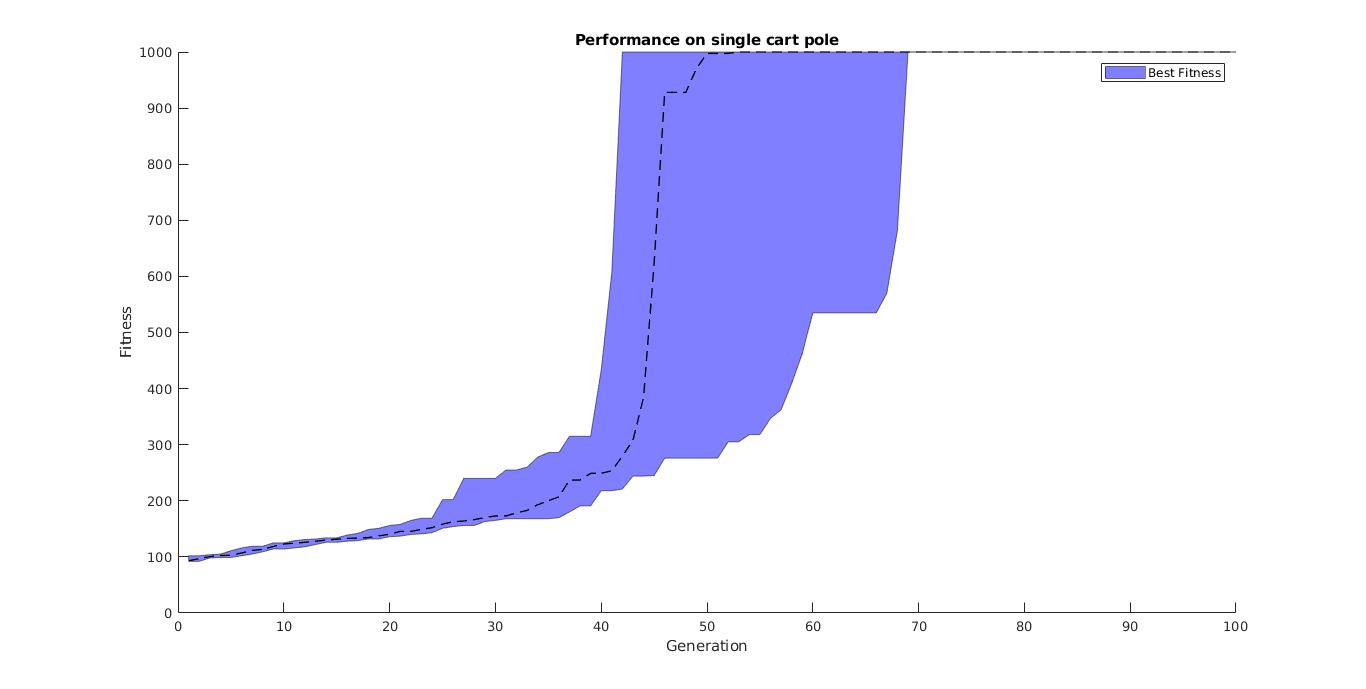
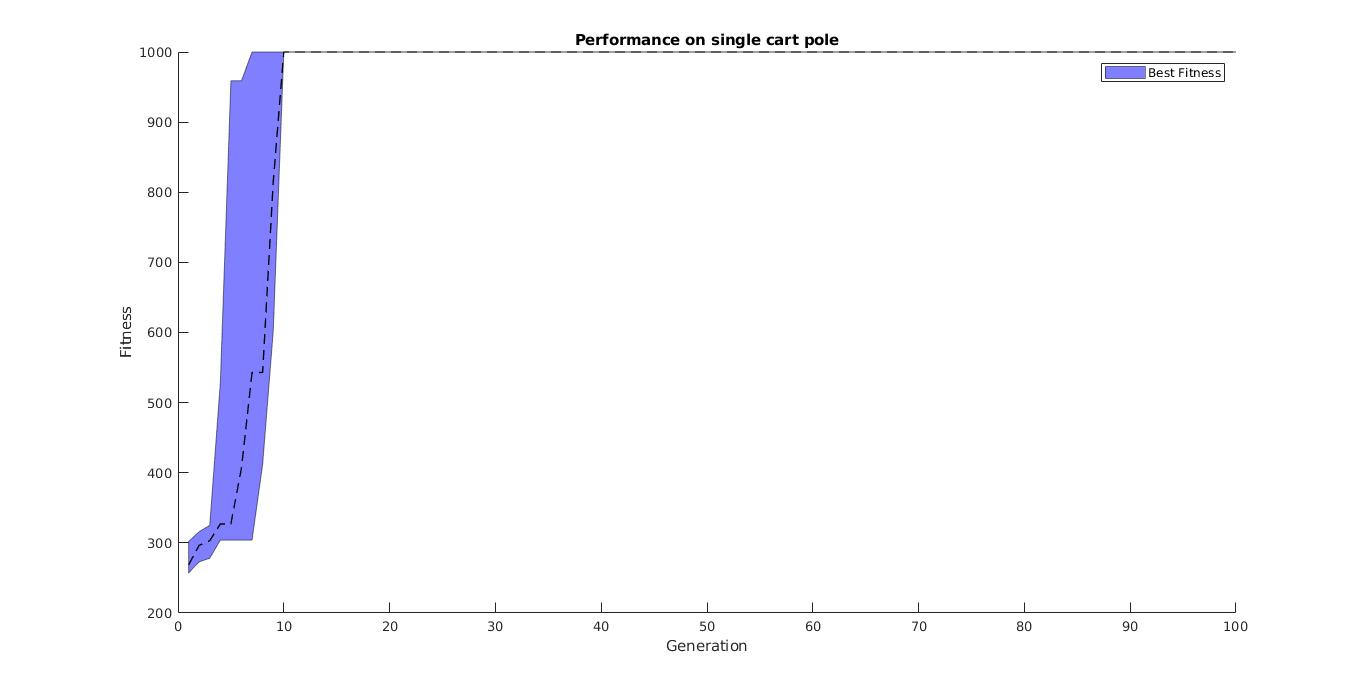
final plots

diff --git a/assignment_5/code/twoPoleDemo.m b/assignment_5/code/twoPoleDemo.m
@@ -10,12 +10,12 @@ addpath('./simulator/')
 %           ]
 %% GA
 clear;
-initialState = [0 0 .017 0 0.0 0]';  % initial state (note, it is a column vector) (1 degree = .017 rad)
+initialState = [0 0 .017 0 0.017 0]';  % initial state (note, it is a column vector) (1 degree = .017 rad)
 scaling = [ 2.4 10.0 0.628329 5 0.628329 16]'; % Divide state vector by this to scale state to numbers between 1 and 0
 popSize = 10;
-maxGen = 1000;
+maxGen = 100;
 totalSteps = 1000;
-nFeatures = 6;
+nFeatures = 4;
 nHidden = 8;
 NNId = 1;
 output = my_ga(initialState, scaling, popSize, maxGen, totalSteps, nFeatures, nHidden, NNId);
@@ -28,7 +28,7 @@ ylabel('Fitness');
 title('Performance on single cart pole');
 
 elite = output.elite;
-sim_output = simulation(totalSteps, initialState, scaling, elite, nFeatures, nHidden, 0)
+% sim_output = simulation(totalSteps, initialState, scaling, elite, nFeatures, nHidden, 1)
 
 %% ES
 clear;
@@ -57,7 +57,7 @@ clear;
 initialState = [0 0 .017 0 0.0 0]';  % initial state (note, it is a column vector) (1 degree = .017 rad)
 scaling = [ 2.4 10.0 0.628329 5 0.628329 16]'; % Divide state vector by this to scale state to numbers between 1 and 0
 popSize = 1;
-maxGen = 500;
+maxGen = 1000;
 totalSteps = 1000;
 nFeatures = 3;
 nHidden = 5;
@@ -73,14 +73,14 @@ title('Performance on single cart pole');
 
 elite = output.elite;
 % sim_output = simulation(totalSteps, initialState, scaling, elite, nFeatures, nHidden, 0, NNId)
-sim_output = simulation_rnn(totalSteps, initialState, scaling, elite, nFeatures, nHidden, 0)
+sim_output = simulation_rnn(totalSteps, initialState, scaling, elite, nFeatures+1, nHidden, 0)
 
 %% GA with RNN
 clear
 initialState = [0 0 .017 0 0.0 0]';  % initial state (note, it is a column vector) (1 degree = .017 rad)
 scaling = [ 2.4 10.0 0.628329 5 0.628329 16]'; % Divide state vector by this to scale state to numbers between 1 and 0
 popSize = 10;
-maxGen = 1000;
+maxGen = 500;
 totalSteps = 1000;
 nFeatures = 3;
 nHidden = 5;
@@ -96,7 +96,7 @@ title('Performance on single cart pole');
 
 elite = output.elite;
 % sim_output = simulation(totalSteps, initialState, scaling, elite, nFeatures, nHidden, 0, NNId)
-sim_output = simulation_rnn(totalSteps, initialState, scaling, elite, nFeatures, nHidden, 0)
+sim_output = simulation_rnn(totalSteps, initialState, scaling, elite, nFeatures+1, nHidden, 0)
 
 %% ESP
 clear;
@@ -106,7 +106,7 @@ popSize = 10;
 maxGen = 100;
 totalSteps = 1000;
 nFeatures = 3;
-nHidden = 8;
+nHidden = 5;
 nTrials = 5;
 output = my_esp(initialState, scaling, popSize, maxGen, totalSteps, nTrials, nFeatures, nHidden);
 output.bestFitness;
@@ -127,22 +127,61 @@ scaling = [ 2.4 10.0 0.628329 5 0.628329 16]'; % Divide state vector by this to 
 popSize = 10;
 maxGen = 100;
 totalSteps = 1000;
-nFeatures = 6;
-nHidden = 8;
+nFeatures = 4;
+nHidden = 1;
 NNId = 1;
-fitness = zeros(nExp, maxGen);
+fitness_esp = zeros(nExp, maxGen);
 
 for iExp=1:nExp
     output = my_ga(initialState, scaling, popSize, maxGen, totalSteps, nFeatures, nHidden, NNId);
-    fitness(iExp,:) = output.bestFitness;
+    fitness_esp(iExp,:) = output.bestFitness;
 end
 
 % plotting
-x = 1:size(fitness, 2);
+x = 1:size(fitness_esp, 2);
 
-best_medY = median(fitness);
-best_uprY = prctile(fitness,75);
-best_lwrY = prctile(fitness,25);
+best_medY = median(fitness_esp);
+best_uprY = prctile(fitness_esp,75);
+best_lwrY = prctile(fitness_esp,25);
+
+[hFill, hi] = jbfill(x,best_uprY,best_lwrY,'b'); hold on;
+% hLine = plot(x, best_medY,'Color','k','LineWidth',1); 
+plot(x, best_medY,'k--','LineWidth',1); % Dotted line to make median more clear 
+
+
+hold off
+legend(hFill, 'Median Fitness','Location', 'NorthEast');
+legend('Best Fitness', 'Location', 'NorthEast');
+xlabel('Generation');
+ylabel('Fitness');
+% axis([0 maxGen 0 50]);
+title('Performance on single cart pole');
+
+
+%% Mutiple experiment 2 pole
+clear;
+nExp = 2;
+initialState = [0 0 .017 0 0.017 0]';  % initial state (note, it is a column vector) (1 degree = .017 rad)
+scaling = [ 2.4 10.0 0.628329 5 0.628329 16]'; % Divide state vector by this to scale state to numbers between 1 and 0
+popSize = 10;
+maxGen = 100;
+totalSteps = 1000;
+nFeatures = 6;
+nHidden = 8;
+NNId = 1;
+fitness_esp = zeros(nExp, maxGen);
+
+for iExp=1:nExp
+    output = my_ga(initialState, scaling, popSize, maxGen, totalSteps, nFeatures, nHidden, NNId);
+    fitness_esp(iExp,:) = output.bestFitness;
+end
+
+% plotting
+x = 1:size(fitness_esp, 2);
+
+best_medY = median(fitness_esp);
+best_uprY = prctile(fitness_esp,75);
+best_lwrY = prctile(fitness_esp,25);
 
 [hFill, hi] = jbfill(x,best_uprY,best_lwrY,'b'); hold on;
 % hLine = plot(x, best_medY,'Color','k','LineWidth',1); 
@@ -154,7 +193,91 @@ legend('Best Fitness', 'Location', 'NorthEast');
 xlabel('Generation');
 ylabel('Fitness');
 % axis([0 maxGen 0 50]);
-title('Performance on single cart pole');
+title('Performance on double cart pole');
+
+%% Multiple experiment ESP vs RNN
+clear;
+nExp = 10;
+
+initialState = [0 0 .017 0 0.0 0]';  % initial state (note, it is a column vector) (1 degree = .017 rad)
+scaling = [ 2.4 10.0 0.628329 5 0.628329 16]'; % Divide state vector by this to scale state to numbers between 1 and 0
+popSize = 10;
+maxGen = 100;
+totalSteps = 1000;
+nFeatures = 3;
+nHidden = 5;
+nTrials = 5;
+fitness_esp = zeros(nExp, maxGen);
+
+for iExp=1:nExp
+    output = my_esp(initialState, scaling, popSize, maxGen, totalSteps, nTrials, nFeatures, nHidden);
+    fitness_esp(iExp,:) = output.bestFitness;
+end
+%%
+popSize = 10;
+maxGen = 500;
+totalSteps = 1000;
+nFeatures = 3;
+nHidden = 5;
+NNId = 0; % For RNN
+fitness = zeros(nExp, maxGen);
+
+for iExp=1:nExp
+    output = my_ga(initialState, scaling, popSize, maxGen, totalSteps, nFeatures, nHidden, NNId);
+    fitness(iExp,:) = output.bestFitness;
+end
+%% plotting side by side
+subplot(1,2,1);
+x = 1:size(fitness_esp, 2);
+
+best_medY = median(fitness_esp);
+best_uprY = prctile(fitness_esp,75);
+best_lwrY = prctile(fitness_esp,25);
+
+[hFill, hi] = jbfill(x,best_uprY,best_lwrY,'b'); hold on;
+% hLine = plot(x, best_medY,'Color','k','LineWidth',1); 
+plot(x, best_medY,'k--','LineWidth',1); % Dotted line to make median more clear 
+
+subplot(1,2,2);
+% plotting
+x = 1:size(fitness, 2);
+
+best_medY = median(fitness);
+best_uprY = prctile(fitness,75);
+best_lwrY = prctile(fitness,25);
+
+[hFill2, hi] = jbfill(x,best_uprY,best_lwrY,'g'); hold on;
+% hLine = plot(x, best_medY,'Color','k','LineWidth',1); 
+plot(x, best_medY,'k--','LineWidth',1); % Dotted line to make median more clear 
+
+%% plotting in one plot
+x = 1:size(fitness_esp, 2);
+
+best_medY = median(fitness_esp);
+best_uprY = prctile(fitness_esp,75);
+best_lwrY = prctile(fitness_esp,25);
+
+[hFill, hi] = jbfill(x,best_uprY,best_lwrY,'b'); hold on;
+% hLine = plot(x, best_medY,'Color','k','LineWidth',1); 
+plot(x, best_medY,'k--','LineWidth',1); % Dotted line to make median more clear 
+
+% plotting
+x = 1:size(fitness, 2);
+
+best_medY = median(fitness);
+best_uprY = prctile(fitness,75);
+best_lwrY = prctile(fitness,25);
+
+[hFill2, hi] = jbfill(x,best_uprY,best_lwrY,'g'); hold on;
+% hLine = plot(x, best_medY,'Color','k','LineWidth',1); 
+plot(x, best_medY,'k--','LineWidth',1); % Dotted line to make median more clear 
+
+legend([hFill hFill2], 'ESP', 'GA RNN','Location', 'NorthEast');
+% legend('ESP', 'GA RNN', 'Location', 'NorthEast');
+xlabel('Generation');
+ylabel('Fitness');
+% axis([0 maxGen 0 50]);
+title('Performance on double cart pole');
 
 
 %% Check matrix

diff --git a/assignment_5/code/my_es.m b/assignment_5/code/my_es.m
@@ -1,21 +1,18 @@
 function es_output = my_es(initialState, scaling, popSize, maxGen, totalSteps, nF, nH, NNId)
 % Algorithm Parameters
 lambda = 1;
-sigma = 0.6;
-change_in_sigma = 0.3;
+sigma = 1.0;
+change_in_sigma = 0.5;
 
-nInputs = 1;
 nFeatures = nF;
 nHidden = nH;
 if NNId == 1
     % Then FFNet
     nOutputs = 1;
-    nNode = nFeatures+nHidden+nOutputs;
     nGenes = (nFeatures*nHidden) + (nHidden*nOutputs);
 else
     % Then RNN
-    nNode = nFeatures+nHidden;
-    nGenes = (nFeatures*nHidden) + (nHidden*(nHidden-1));
+    nGenes = ((nFeatures+1)*nHidden) + (nHidden*(nHidden-1));
 end
 verbose = 1;
 bestFit = zeros([maxGen, 1]);
@@ -32,19 +29,20 @@ for iGen=1:maxGen
     parentIds = es_selection(popSize, lambda);
     % Mutation
     mutated_children = es_mutation(pop, parentIds, sigma);
-    parentSize = size(parentIds,1);
-    mutatedSize = size(mutated_children,1);
-    popSize = parentSize + mutatedSize;
+    popSize = oldPopSize + lambda;
 %     pop = [pop; mutated_children];
     pop = vertcat(pop, mutated_children);
     for iPop = 1:popSize
         Weights = pop(iPop,:);
-%         step = simulation(totalSteps, initialState, scaling, Weights, nFeatures, nHidden, 0);
-        step = simulation_rnn(totalSteps, initialState, scaling, Weights, nFeatures, nHidden, 0);
+        if NNId == 1
+            step = simulation(totalSteps, initialState, scaling, Weights, nFeatures, nHidden, 0);
+        else
+            step = simulation_rnn(totalSteps, initialState, scaling, Weights, nFeatures+1, nHidden, 0);
+        end
         fitness(1, iPop) = step.fitness;
     end
-    fitness_mutated_children = fitness(parentSize+1:parentSize+mutatedSize);
-    fitness_parent = fitness(1:parentSize);
+    fitness_mutated_children = fitness(oldPopSize+1:end);
+    fitness_parent = fitness(1:oldPopSize);
     for i=1:lambda
         if fitness_parent < fitness_mutated_children(i)
             successful_mutation = successful_mutation+1;

diff --git a/assignment_5/code/my_ga.m b/assignment_5/code/my_ga.m
@@ -1,28 +1,24 @@
 function ga_output = my_ga(initialState, scaling, popSize, maxGen, totalSteps, nF, nH, NNId)
-nInputs = 1; 
 nFeatures = nF;
 nHidden = nH;
 if NNId == 1
     % Then FFNet
     nOutputs = 1;
-    nNode = nFeatures+nHidden+nOutputs;
     nGenes = (nFeatures*nHidden) + (nHidden*nOutputs);
 else
     % Then RNN
-    nNode = nFeatures+nHidden;
-    nGenes = (nFeatures*nHidden) + (nHidden*(nHidden-1));
+    nGenes = ((nFeatures+1)*nHidden) + (nHidden*(nHidden-1));
 end
 % popSize = 100;
 sp = 2;
 crossProb = 0.9;
-mutProb = 0.4;
+mutProb = 0.5;
 totalEpisodes = maxGen;
 
 pop = rand(popSize,nGenes);
 fitness = zeros(1,popSize);
 BestFitness = zeros(1, totalEpisodes);
 
-%Run for 200 episodes
 for episode=1:totalEpisodes
     % Run this for each individual to get its fitness
     for iPop = 1:popSize
@@ -30,7 +26,7 @@ for episode=1:totalEpisodes
         if NNId == 1
             step = simulation(totalSteps, initialState, scaling, Weights, nFeatures, nHidden, 0);
         else
-            step = simulation_rnn(totalSteps, initialState, scaling, Weights, nFeatures, nHidden, 0);
+            step = simulation_rnn(totalSteps, initialState, scaling, Weights, nFeatures+1, nHidden, 0);
         end
         fitness(1, iPop) = step.fitness;
     end

diff --git a/assignment_5/code/simulation.m b/assignment_5/code/simulation.m
@@ -10,14 +10,14 @@ for step=1:totalSteps
     onTrack = abs(state(1)) < 1.16;
     notFast = abs(state(2)) < 1.35;
     pole1Up = abs(state(3)) < pi/2;
-    pole2Up = true;
-%     pole2Up = abs(state(5)) < pi/2;
+%     pole2Up = true;
+    pole2Up = abs(state(5)) < pi/2;
     failureConditions = ~[onTrack notFast pole1Up pole2Up];
     if any(failureConditions)
         break;
     else
         scaledInput = state./scaling; % Normalize state vector for ANN
-
+%         scaledInput = scaledInput(1:4);
         output = ActivateFFNet(scaledInput', Weights, nF, nH);
         action = output*10; % Scale to full force
 
@@ -26,11 +26,8 @@ for step=1:totalSteps
 
         % Visualize result (optional and slow, don't use all the time!)
         if visualise == 1
-%             action
-%             state(1)
-%             state(2)
             cpvisual(fig, 1, state(1:4), [-3 3 0 2], action );         % Pole 1
-            % cpvisual(fig, 0.5, state([1 2 5 6]), [-3 3 0 2], action ); % Pole 2
+            cpvisual(fig, 0.5, state([1 2 5 6]), [-3 3 0 2], action ); % Pole 2
 %             pause(0.005)
         end
         %

diff --git a/assignment_5/code/simulation_rnn.m b/assignment_5/code/simulation_rnn.m
@@ -18,7 +18,8 @@ for step=1:totalSteps
         break;
     else
         scaledInput = state./scaling; % Normalize state vector for ANN
-        nodeAct(1:nF) = scaledInput([1 3 5]);
+        modeAct(1) = 1;
+        nodeAct(2:nF) = scaledInput([1 3 5]);
         % RNNet
         output = ActivateRNNet(nodeAct, Weights, nF, nH);
         action = output.action*10; % Scale to full force

diff --git a/assignment_5/code/my_esp.m b/assignment_5/code/my_esp.m
@@ -3,7 +3,7 @@ function output = my_esp(initialState, scaling, popSize, maxGen, totalSteps, nTr
 nHidden = nH;
 nFeatures = nF;
 nGenes = nFeatures + nHidden; % genes for RNN
-mutProb = 2/nGenes;
+mutProb = 3/nGenes;
 % Create population
 pop = rand(popSize,nGenes, nHidden);
 elite = zeros(nGenes);
